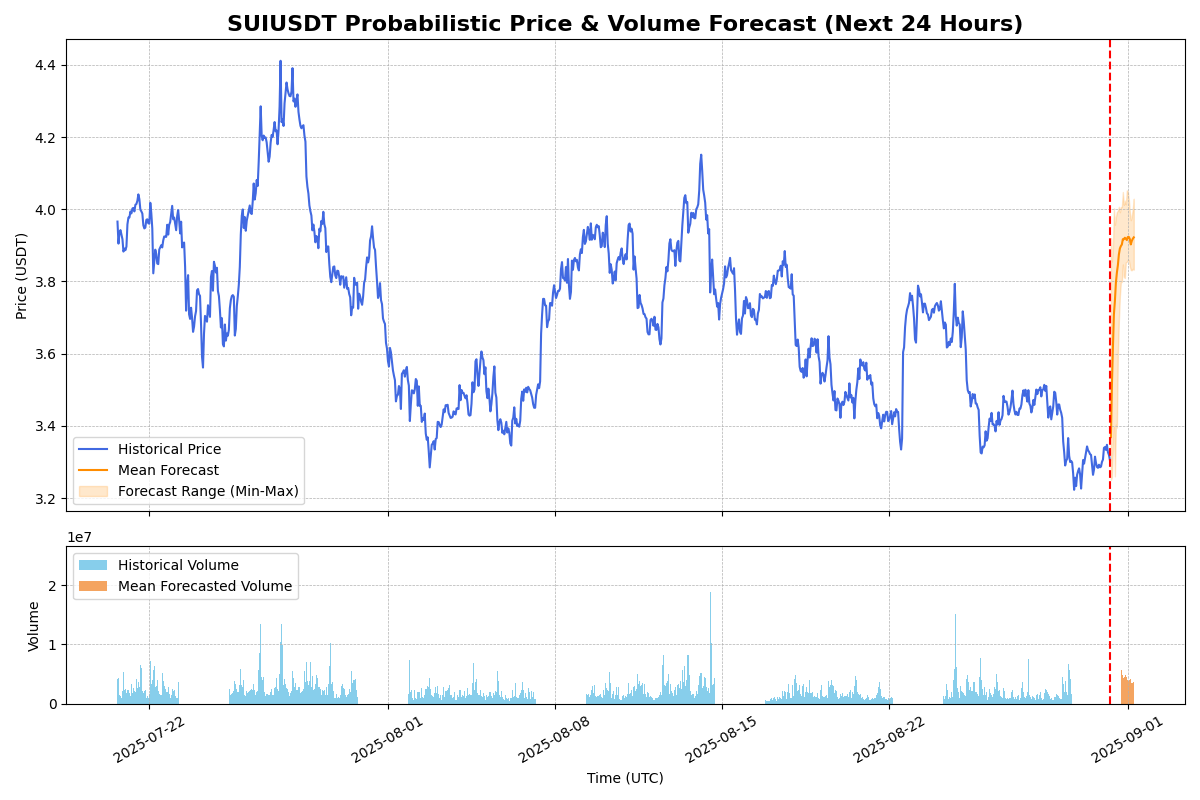
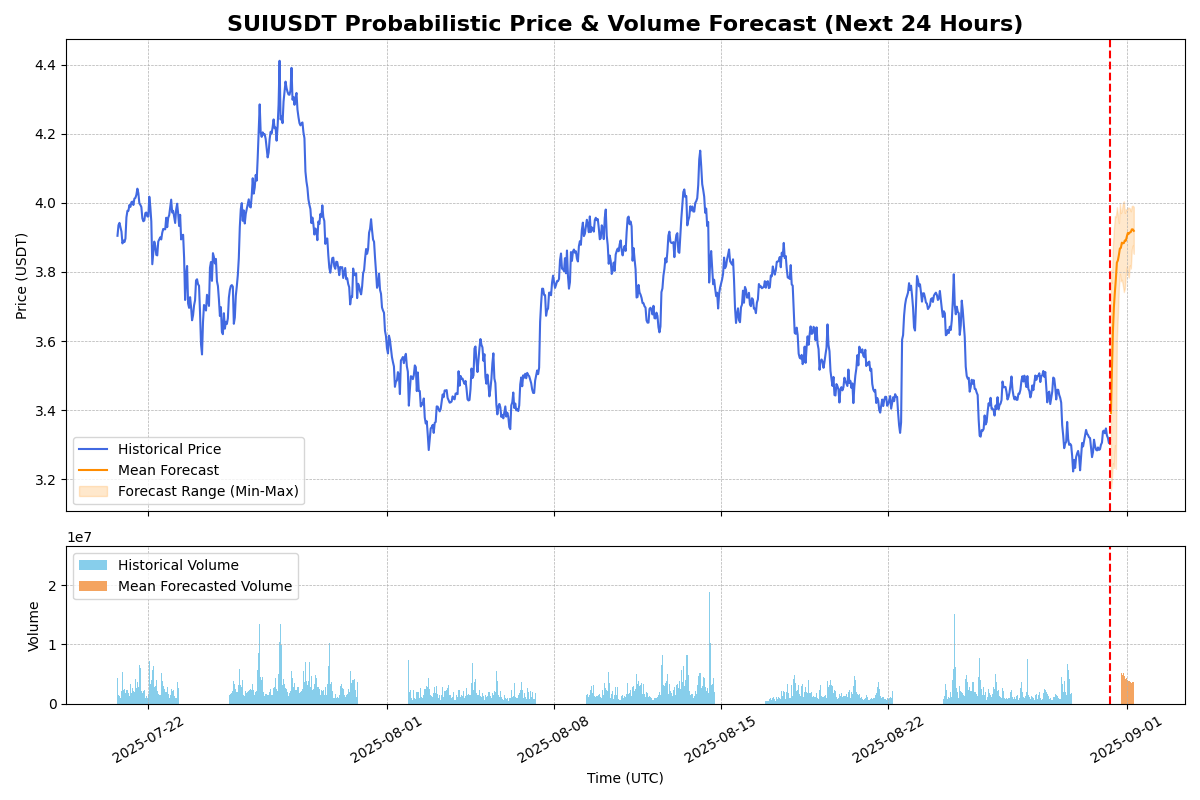
Auto-update forecasts for 2025-08-31 08:11 UTC

diff --git a/index.html b/index.html
@@ -20,7 +20,7 @@
     <main class="container">
         <section id="live-dashboard">
             <div class="metadata">
-                <span>服务运行生成数据时间: <strong>2025-08-31 07:10:30</strong></span>
+                <span>服务运行生成数据时间: <strong>2025-08-31 08:11:59</strong></span>
                 <span>数据来源: Binance (via CCXT) | 时间间隔: 1小时</span>
             </div>
                <div class="chart-wrapper">
